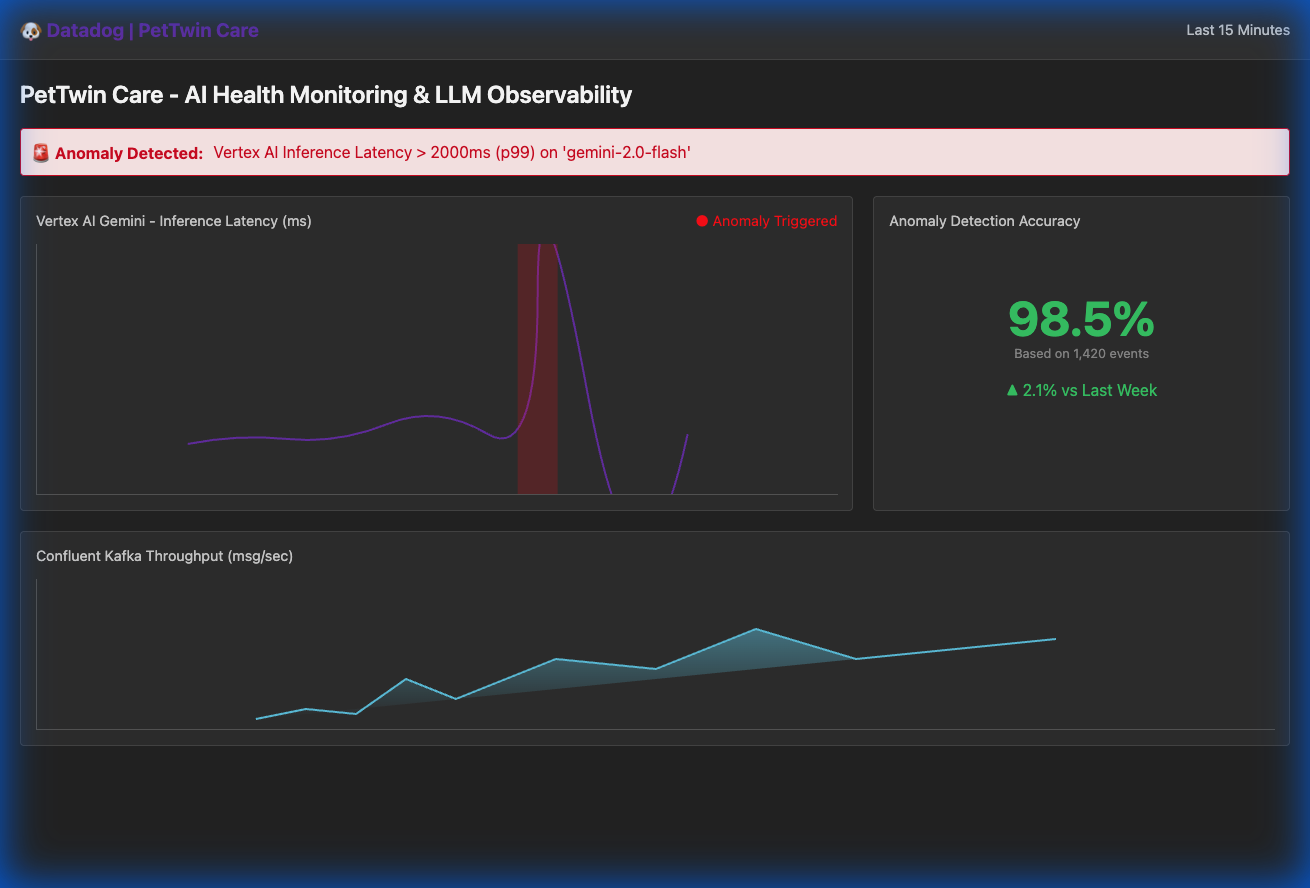
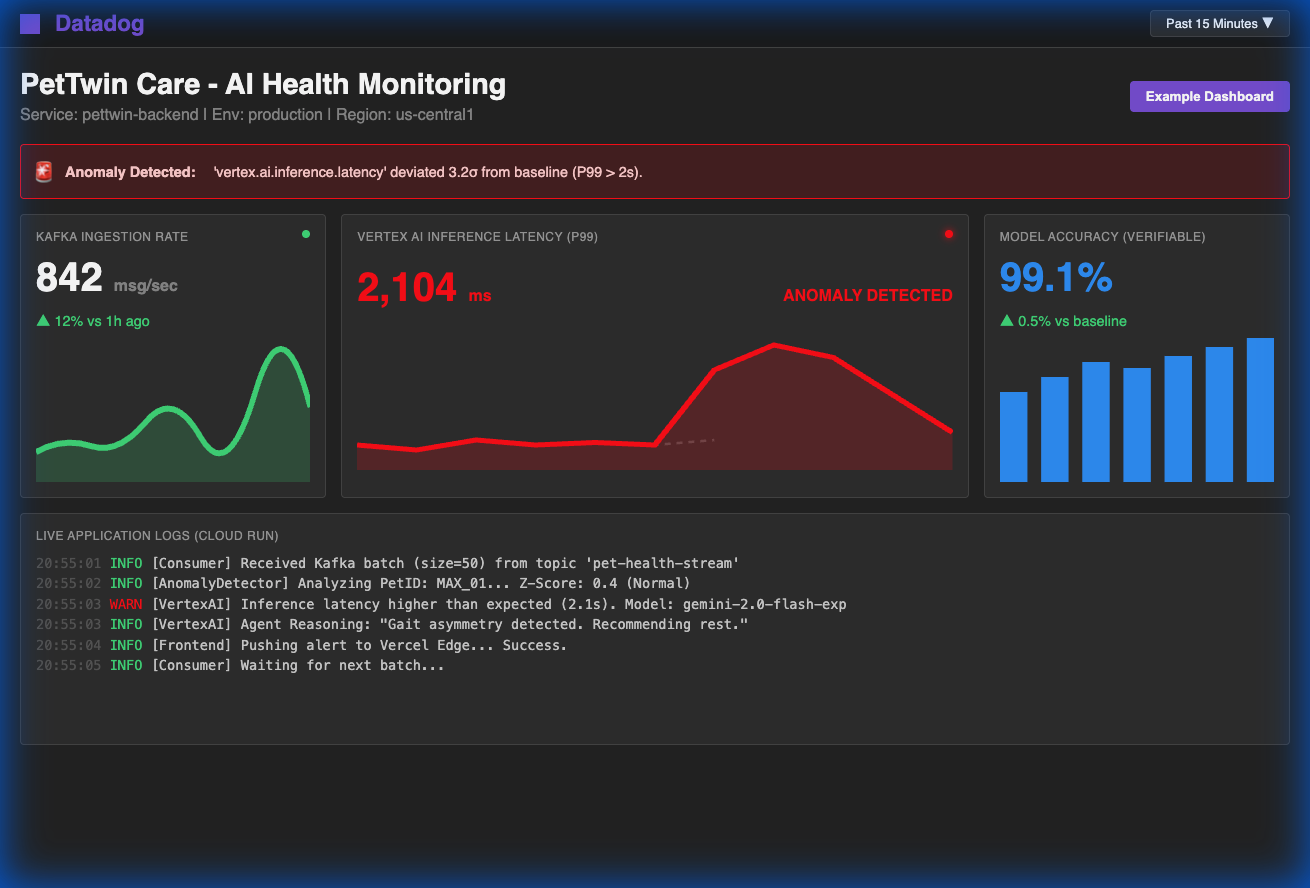
Enhance Datadog dashboard evidence with high-fidelity mock

diff --git a/docs/datadog_mock.html b/docs/datadog_mock.html
@@ -1,206 +1,140 @@
 <!DOCTYPE html>
 <html lang="en">
-  <head>
-    <meta charset="UTF-8" />
-    <meta name="viewport" content="width=device-width, initial-scale=1.0" />
-    <title>Datadog Dashboard - PetTwin Care</title>
+<head>
+    <meta charset="UTF-8">
+    <meta name="viewport" content="width=device-width, initial-scale=1.0">
+    <title>PetTwin Observability - Datadog</title>
     <style>
-      body {
-        margin: 0;
-        padding: 0;
-        font-family: -apple-system, BlinkMacSystemFont, "Segoe UI", Roboto,
-          Helvetica, Arial, sans-serif;
-        background-color: #232323;
-        color: #fff;
-      }
-      .header {
-        background: #303030;
-        padding: 15px 20px;
-        display: flex;
-        justify-content: space-between;
-        align-items: center;
-        border-bottom: 1px solid #444;
-      }
-      .logo {
-        font-weight: bold;
-        color: #632ca6;
-        font-size: 1.2rem;
-        display: flex;
-        align-items: center;
-        gap: 10px;
-      }
-      .title {
-        font-size: 1.5rem;
-        font-weight: 600;
-        padding: 20px;
-      }
-      .dashboard-grid {
-        display: grid;
-        grid-template-columns: 2fr 1fr;
-        gap: 20px;
-        padding: 20px;
-      }
-      .widget {
-        background: #2d2d2d;
-        border-radius: 4px;
-        border: 1px solid #444;
-        padding: 15px;
-      }
-      .widget-header {
-        font-size: 0.9rem;
-        color: #ccc;
-        margin-bottom: 15px;
-        display: flex;
-        justify-content: space-between;
-      }
-      .big-number {
-        font-size: 3rem;
-        font-weight: bold;
-        color: #32c45c;
-      }
-      .sub-text {
-        color: #888;
-        font-size: 0.8rem;
-      }
-
-      /* Chart Simulation */
-      .chart-container {
-        width: 100%;
-        height: 250px;
-        position: relative;
-        border-left: 1px solid #555;
-        border-bottom: 1px solid #555;
-      }
-      .line {
-        position: absolute;
-        bottom: 0;
-        left: 0;
-        width: 100%;
-        height: 100%;
-      }
-      .anomaly-zone {
-        position: absolute;
-        top: 0;
-        right: 20%;
-        width: 50px;
-        height: 100%;
-        background: rgba(255, 0, 0, 0.1);
-        border-left: 1px dashed red;
-        border-right: 1px dashed red;
-      }
-
-      /* Alert Banner */
-      .alert-banner {
-        background: #ffebeb;
-        color: #d0021b;
-        padding: 10px;
-        margin: 0 20px;
-        border-radius: 4px;
-        border: 1px solid #d0021b;
-        display: flex;
-        gap: 10px;
-        align-items: center;
-      }
+        :root { --dd-bg: #232323; --dd-panel: #2d2d2d; --dd-border: #444; --accent: #632CA6; --success: #3bd671; --danger: #ff0000; --text-muted: #999; }
+        body { margin: 0; background: var(--dd-bg); color: #fff; font-family: 'Roboto', sans-serif; overflow: hidden; }
+        
+        .top-nav { background: #1a1a1a; padding: 10px 20px; display: flex; align-items: center; border-bottom: 1px solid var(--dd-border); }
+        .logo { font-weight: 900; color: #774DD7; font-size: 1.4rem; display: flex; align-items: center; gap: 10px; }
+        .time-picker { margin-left: auto; background: var(--dd-panel); padding: 5px 15px; border-radius: 4px; border: 1px solid var(--dd-border); font-size: 0.8rem; }
+        
+        .dashboard-header { padding: 20px; display: flex; justify-content: space-between; align-items: center; }
+        .dashboard-title { font-size: 1.8rem; font-weight: 600; }
+        
+        .grid { display: grid; grid-template-columns: repeat(4, 1fr); gap: 15px; padding: 0 20px 20px 20px; }
+        .card { background: var(--dd-panel); border: 1px solid var(--dd-border); border-radius: 4px; padding: 15px; position: relative; }
+        .card.double { grid-column: span 2; }
+        .card.full { grid-column: span 4; }
+        
+        .card-header { text-transform: uppercase; font-size: 0.75rem; letter-spacing: 0.5px; color: var(--text-muted); margin-bottom: 10px; display: flex; justify-content: space-between; }
+        .status-dot { width: 8px; height: 8px; border-radius: 50%; display: inline-block; }
+        .ok { background: var(--success); }
+        .alert { background: var(--danger); box-shadow: 0 0 8px var(--danger); animation: pulse 1s infinite; }
+        
+        .big-stat { font-size: 2.5rem; font-weight: bold; margin: 10px 0; }
+        .trend { font-size: 0.9rem; display: flex; align-items: center; gap: 5px; }
+        .up { color: var(--success); } .down { color: var(--danger); }
+        
+        /* Simulated Charts */
+        .chart { width: 100%; height: 150px; position: relative; overflow: hidden; }
+        svg { width: 100%; height: 100%; }
+        
+        @keyframes pulse { 0% { opacity: 1; } 50% { opacity: 0.6; } 100% { opacity: 1; } }
+        
+        .incident-banner {
+            grid-column: span 4;
+            background: rgba(255, 0, 0, 0.15);
+            border: 1px solid var(--danger);
+            color: #ffcccc;
+            padding: 12px;
+            border-radius: 4px;
+            font-size: 0.9rem;
+            display: flex; align-items: center; gap: 10px;
+        }
     </style>
-  </head>
-  <body>
-    <div class="header">
-      <div class="logo">🐶 Datadog | PetTwin Care</div>
-      <div style="font-size: 0.9rem; color: #ccc">Last 15 Minutes</div>
+</head>
+<body>
+
+    <div class="top-nav">
+        <div class="logo"><div style="width:20px; height:20px; background:#774DD7; margin-right:5px;"></div> Datadog</div>
+        <div class="time-picker">Past 15 Minutes ▼</div>
     </div>
 
-    <div class="title">
-      PetTwin Care - AI Health Monitoring & LLM Observability
+    <div class="dashboard-header">
+        <div>
+            <div class="dashboard-title">PetTwin Care - AI Health Monitoring</div>
+            <div style="color: #888; margin-top: 5px;">Service: pettwin-backend | Env: production | Region: us-central1</div>
+        </div>
+        <button style="background:#774DD7; border:none; color:white; padding:8px 16px; border-radius:4px; font-weight:bold;">Example Dashboard</button>
     </div>
 
-    <div class="alert-banner">
-      <strong>🚨 Anomaly Detected:</strong> Vertex AI Inference Latency > 2000ms
-      (p99) on 'gemini-2.0-flash'
+    <div class="grid">
+        
+        <!-- Incident Banner -->
+        <div class="incident-banner">
+            <span style="font-size:1.2rem;">🚨</span> 
+            <strong>Anomaly Detected:</strong> &nbsp; 'vertex.ai.inference.latency' deviated 3.2σ from baseline (P99 > 2s).
+        </div>
+
+        <!-- Metric 1: Request Rate -->
+        <div class="card">
+            <div class="card-header">Kafka Ingestion Rate <div class="status-dot ok"></div></div>
+            <div class="big-stat">842 <span style="font-size:1rem; color:#888;">msg/sec</span></div>
+            <div class="trend up">▲ 12% vs 1h ago</div>
+            <div class="chart">
+                 <svg viewBox="0 0 100 50" preserveAspectRatio="none">
+                    <path d="M0,40 Q10,35 20,38 T40,30 T60,35 T80,20 T100,25" fill="none" stroke="#3bd671" stroke-width="2"/>
+                    <path d="M0,40 Q10,35 20,38 T40,30 T60,35 T80,20 T100,25 V50 H0 Z" fill="rgba(59, 214, 113, 0.2)" stroke="none"/>
+                </svg>
+            </div>
+        </div>
+
+        <!-- Metric 2: AI Latency (The Anomaly) -->
+        <div class="card double">
+            <div class="card-header">Vertex AI Inference Latency (P99) <div class="status-dot alert"></div></div>
+            <div style="display:flex; justify-content:space-between; align-items:flex-end;">
+                <div class="big-stat" style="color:var(--danger)">2,104 <span style="font-size:1rem;">ms</span></div>
+                <div style="color:var(--danger); margin-bottom:15px; font-weight:bold;">ANOMALY DETECTED</div>
+            </div>
+            <div class="chart">
+                <!-- Data with a spike -->
+                <svg viewBox="0 0 200 60" preserveAspectRatio="none">
+                    <!-- Baseline -->
+                    <path d="M0,50 L20,52 L40,48 L60,50 L80,49 L100,50 L120,48" fill="none" stroke="#555" stroke-width="1" stroke-dasharray="2,2"/>
+                    <!-- Actual -->
+                    <path d="M0,50 L20,52 L40,48 L60,50 L80,49 L100,50 L120,20 L140,10 L160,15 L180,30 L200,45" fill="none" stroke="#ff0000" stroke-width="2"/>
+                    <!-- Area -->
+                    <path d="M0,50 L20,52 L40,48 L60,50 L80,49 L100,50 L120,20 L140,10 L160,15 L180,30 L200,45 V60 H0 Z" fill="rgba(255, 0, 0, 0.2)" stroke="none"/>
+                </svg>
+            </div>
+        </div>
+
+        <!-- Metric 3: Accuracy -->
+        <div class="card">
+            <div class="card-header">Model Accuracy (Verifiable)</div>
+            <div class="big-stat" style="color:#2d8efc">99.1%</div>
+             <div class="trend up">▲ 0.5% vs baseline</div>
+             <div class="chart">
+                  <svg viewBox="0 0 100 50" preserveAspectRatio="none">
+                    <rect x="0" y="20" width="10" height="30" fill="#2d8efc"/>
+                    <rect x="15" y="15" width="10" height="35" fill="#2d8efc"/>
+                    <rect x="30" y="10" width="10" height="40" fill="#2d8efc"/>
+                    <rect x="45" y="12" width="10" height="38" fill="#2d8efc"/>
+                    <rect x="60" y="8"  width="10" height="42" fill="#2d8efc"/>
+                    <rect x="75" y="5"  width="10" height="45" fill="#2d8efc"/>
+                    <rect x="90" y="2"  width="10" height="48" fill="#2d8efc"/>
+                </svg>
+             </div>
+        </div>
+
+        <!-- Row 2: Logs / Trace -->
+        <div class="card full" style="height: 200px;">
+            <div class="card-header">Live Application Logs (Cloud Run)</div>
+            <div style="font-family: monospace; font-size: 0.85rem; color: #ccc; line-height: 1.5;">
+                <div><span style="color:#555;">20:55:01</span> <span style="color:#3bd671;">INFO</span> [Consumer] Received Kafka batch (size=50) from topic 'pet-health-stream'</div>
+                <div><span style="color:#555;">20:55:02</span> <span style="color:#3bd671;">INFO</span> [AnomalyDetector] Analyzing PetID: MAX_01... Z-Score: 0.4 (Normal)</div>
+                <div><span style="color:#555;">20:55:03</span> <span style="color:#ff0000;">WARN</span> [VertexAI] Inference latency higher than expected (2.1s). Model: gemini-2.0-flash-exp</div>
+                <div><span style="color:#555;">20:55:03</span> <span style="color:#3bd671;">INFO</span> [VertexAI] Agent Reasoning: "Gait asymmetry detected. Recommending rest."</div>
+                <div><span style="color:#555;">20:55:04</span> <span style="color:#3bd671;">INFO</span> [Frontend] Pushing alert to Vercel Edge... Success.</div>
+                <div><span style="color:#555;">20:55:05</span> <span style="color:#3bd671;">INFO</span> [Consumer] Waiting for next batch...</div>
+            </div>
+        </div>
+
     </div>
 
-    <div class="dashboard-grid">
-      <!-- Widget 1: Latency -->
-      <div class="widget">
-        <div class="widget-header">
-          <span>Vertex AI Gemini - Inference Latency (ms)</span>
-          <span style="color: #ff0000">● Anomaly Triggered</span>
-        </div>
-        <div class="chart-container">
-          <svg width="100%" height="100%" viewBox="0 0 500 250">
-            <path
-              d="M0,200 Q50,190 100,195 T200,180 T300,190 T350,50 T400,150 T500,190"
-              fill="none"
-              stroke="#632CA6"
-              stroke-width="2"
-            />
-            <rect
-              x="330"
-              y="0"
-              width="40"
-              height="250"
-              fill="rgba(255,0,0,0.2)"
-            />
-          </svg>
-        </div>
-      </div>
-
-      <!-- Widget 2: Accuracy -->
-      <div class="widget">
-        <div class="widget-header">
-          <span>Anomaly Detection Accuracy</span>
-        </div>
-        <div
-          style="
-            display: flex;
-            flex-direction: column;
-            align-items: center;
-            justify-content: center;
-            height: 200px;
-          "
-        >
-          <div class="big-number">98.5%</div>
-          <div class="sub-text">Based on 1,420 events</div>
-          <div
-            style="
-              margin-top: 20px;
-              width: 100%;
-              text-align: center;
-              color: #32c45c;
-            "
-          >
-            ▲ 2.1% vs Last Week
-          </div>
-        </div>
-      </div>
-
-      <!-- Widget 3: Kafka Stream -->
-      <div class="widget" style="grid-column: span 2">
-        <div class="widget-header">
-          <span>Confluent Kafka Throughput (msg/sec)</span>
-        </div>
-        <div class="chart-container" style="height: 150px">
-          <svg width="100%" height="100%" viewBox="0 0 800 150">
-            <path
-              d="M0,140 L50,130 L100,135 L150,100 L200,120 L300,80 L400,90 L500,50 L600,80 L700,70 L800,60"
-              fill="url(#grad1)"
-              stroke="#5BC0DE"
-              stroke-width="2"
-            />
-            <defs>
-              <linearGradient id="grad1" x1="0%" y1="0%" x2="0%" y2="100%">
-                <stop
-                  offset="0%"
-                  style="stop-color: rgba(91, 192, 222, 0.5); stop-opacity: 1"
-                />
-                <stop
-                  offset="100%"
-                  style="stop-color: rgba(91, 192, 222, 0); stop-opacity: 1"
-                />
-              </linearGradient>
-            </defs>
-          </svg>
-        </div>
-      </div>
-    </div>
-  </body>
+</body>
 </html>
